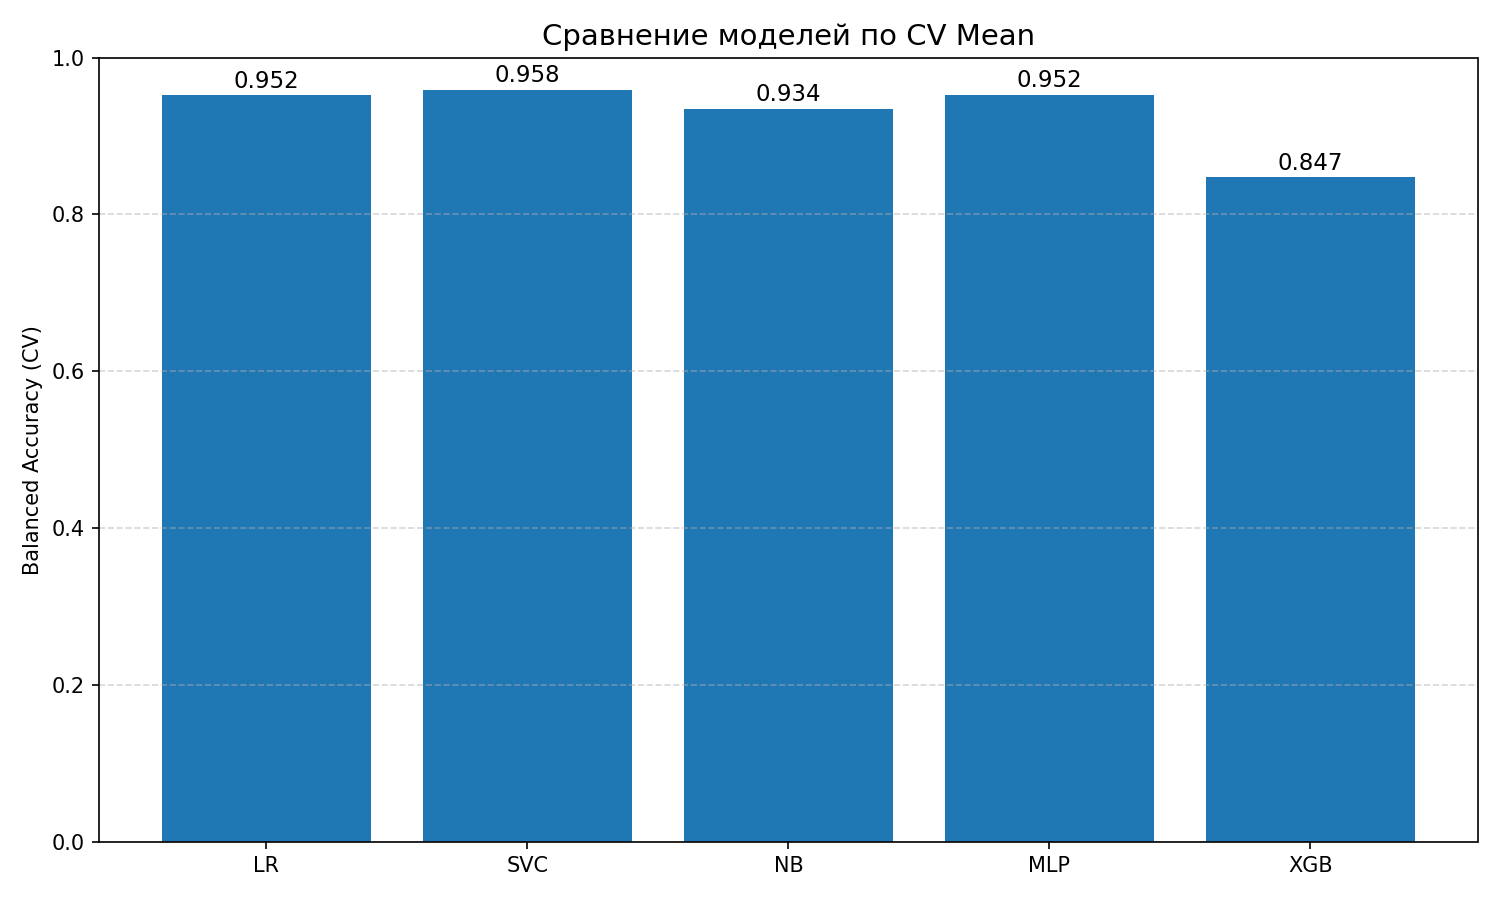
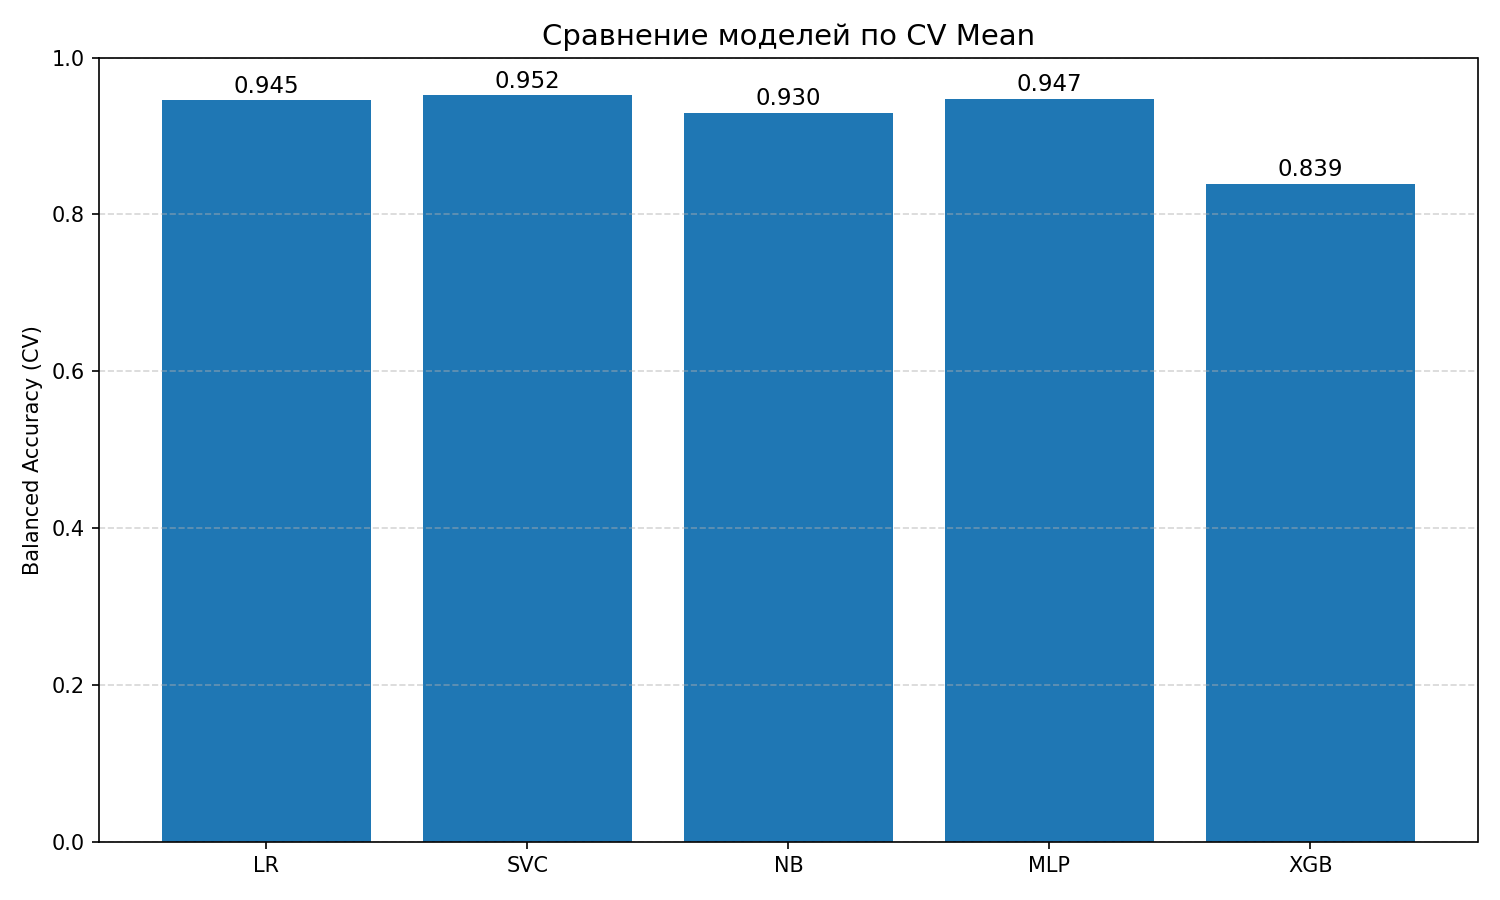
Переписана кросс-валидация через Pipeline (без утечки данных),  обновлены графики и таблица

diff --git a/ml_models/train.py b/ml_models/train.py
@@ -8,21 +8,17 @@ from sklearn.neural_network import MLPClassifier
 from xgboost import XGBClassifier
 from sklearn.preprocessing import LabelEncoder
 from sklearn.metrics import balanced_accuracy_score
+from sklearn.pipeline import Pipeline
 import warnings
 warnings.filterwarnings('ignore')
 
 df = pd.read_csv('data/final/final_dataset.csv')
 
-vectorizer = TfidfVectorizer(min_df=2, max_df=0.95, ngram_range=(1, 2))
-X_train_text, X_test_text, y_train, y_test = train_test_split(
-    df['text'], df['label'],
-    test_size=0.15, stratify=df['label'], random_state=42
-)
-
+TFIDF_PARAMS = {'min_df': 2, 'max_df': 0.95, 'ngram_range': (1, 2)}
+X_train_text, X_test_text, y_train, y_test = train_test_split(df['text'], df['label'], test_size=0.15, stratify=df['label'], random_state=42)
+vectorizer = TfidfVectorizer(**TFIDF_PARAMS)
 X_train = vectorizer.fit_transform(X_train_text)
 X_test = vectorizer.transform(X_test_text)
-X = vectorizer.transform(df['text'])
-y = df['label']
 
 lr = LogisticRegression(max_iter=1000, class_weight='balanced', random_state=42)
 lr.fit(X_train, y_train)
@@ -37,28 +33,36 @@ mlp = MLPClassifier(hidden_layer_sizes=(100, 50), max_iter=500, random_state=42)
 mlp.fit(X_train, y_train)
 
 le = LabelEncoder()
-y_enc = le.fit_transform(y)
 y_train_enc = le.fit_transform(y_train)
 y_test_enc = le.transform(y_test)
-
+y_enc = le.fit_transform(df['label'])
 xgb = XGBClassifier(eval_metric='mlogloss', random_state=42)
 xgb.fit(X_train, y_train_enc)
 
 skf = StratifiedKFold(n_splits=5, shuffle=True, random_state=42)
-models_all = {"LR": lr, "SVC": svc, "NB": nb, "MLP": mlp, "XGB": xgb}
 results = []
-for name, model in models_all.items():
-    if name == "XGB":
-        train_score = balanced_accuracy_score(y_train_enc, model.predict(X_train))
-        test_score = balanced_accuracy_score(y_test_enc, model.predict(X_test))
-        scores = cross_val_score(model, X, y_enc, cv=skf, scoring='balanced_accuracy')
+models = {
+    'LR': (lr, LogisticRegression(max_iter=1000, class_weight='balanced', random_state=42)),
+    'SVC': (svc, LinearSVC(class_weight='balanced', max_iter=2000, random_state=42)),
+    'NB': (nb, MultinomialNB(alpha=0.1)),
+    'MLP': (mlp, MLPClassifier(hidden_layer_sizes=(100, 50), max_iter=500, random_state=42)),
+    'XGB': (xgb, XGBClassifier(eval_metric='mlogloss', random_state=42))
+}
+for name, (trained_model, clean_model) in models.items():
+    pipeline = Pipeline([
+        ('tfidf', TfidfVectorizer(**TFIDF_PARAMS)),
+        ('clf', clean_model)
+    ])
+    if name == 'XGB':
+        scores = cross_val_score(pipeline, df['text'], y_enc, cv=skf, scoring='balanced_accuracy')
+        train_score = balanced_accuracy_score(y_train_enc, trained_model.predict(X_train))
+        test_score = balanced_accuracy_score(y_test_enc, trained_model.predict(X_test))
     else:
-        train_score = balanced_accuracy_score(y_train, model.predict(X_train))
-        test_score = balanced_accuracy_score(y_test, model.predict(X_test))
-        scores = cross_val_score(model, X, y, cv=skf, scoring='balanced_accuracy')
+        scores = cross_val_score(pipeline, df['text'], df['label'], cv=skf, scoring='balanced_accuracy')
+        train_score = balanced_accuracy_score(y_train, trained_model.predict(X_train))
+        test_score = balanced_accuracy_score(y_test, trained_model.predict(X_test))
     results.append({'Model': name, 'Train': round(train_score, 4), 'Test': round(test_score, 4), 'CV Mean': round(scores.mean(), 4)})
 results_df = pd.DataFrame(results)
 print(results_df)
-
 results_df.to_csv('results/train_results.csv', index=False)
 print("Сохранено в results/train_results.csv")